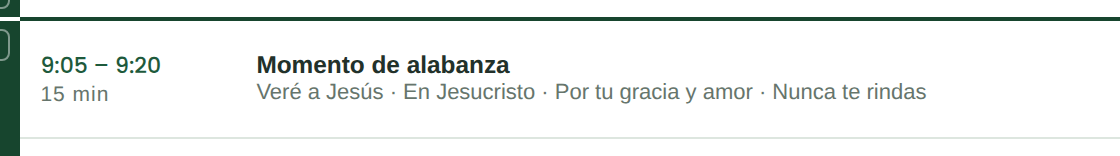
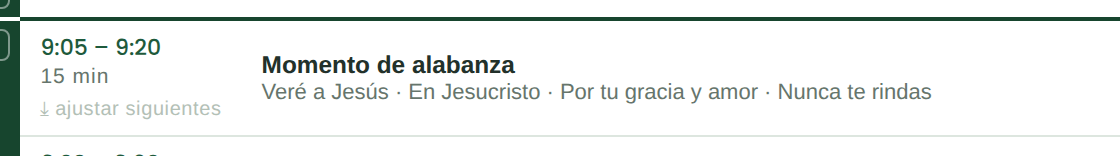
Correccion del horario en cascada: boton 'ajustar siguientes' por espacio
Cada espacio siguiente arranca donde termina el anterior y conserva su
duracion. Accion explicita, con deshacer, y 8 pruebas nuevas (tests/horario.js).

Claude-Session: https://claude.ai/code/session_013QA1nqfcv4KHsLsdxdkmcu

diff --git a/index.html b/index.html
@@ -79,6 +79,14 @@
   .hora { width: 108px; white-space: nowrap; }
   .rango { font-family: 'Poppins'; font-weight: 500; font-size: 11px; color: var(--verde2); }
   .mins { font-size: 8.8px; color: var(--gris); letter-spacing: 0.5px; }
+  /* boton de corregir el horario en cascada: solo existe en pantalla */
+  .ajustar { display: none; }
+  @media screen {
+    .ajustar { display: inline-block; border: none; background: none; color: #b3c0b6;
+      font-size: 10px; padding: 2px 0 0; cursor: pointer; letter-spacing: .3px; }
+    .ajustar:hover { color: var(--verde); text-decoration: underline; }
+    body.tarjetas .ajustar { font-size: 12.5px; padding: 6px 0; }
+  }
   .espacio .tit { font-size: 12.2px; font-weight: 700; }
   .espacio .sub { font-size: 10.2px; color: var(--gris); margin-top: 1px; }
   .espacio .sub:empty::before, .dirige .rol:empty::before { content: 'detalle (opcional)'; color: #c3cfc7; }
@@ -261,7 +269,7 @@
   @media print {
     body { background: #fff; }
     .hoja { zoom: 1 !important; }
-    .toolbar, .ops, .sbtn, .meta .quitar, .meta .agregar { display: none !important; }
+    .toolbar, .ops, .sbtn, .ajustar, .meta .quitar, .meta .agregar { display: none !important; }
     .hoja { margin: 0; box-shadow: none; width: 11in; height: 8.5in; }
     header img:hover { outline: none; }
     [contenteditable]:hover, [contenteditable]:focus { outline: none; background: transparent; }
@@ -739,7 +747,7 @@ document.addEventListener('visibilitychange', () => { if (document.hidden) guard
    Lee un rango tipo "9:05 - 9:20" y devuelve "15 min". Las horas de los programas
    van en formato de 12 horas sin am/pm, asi que si el fin queda antes del inicio
    se asume que cruzo el mediodia (11:35 - 12:20) o la tarde (12:20 - 1:05). */
-function calcularMins(rango) {
+function parsearRango(rango) {
   const hora = '(\\d{1,2}):(\\d{2})\\s*(a\\.?m\\.?|p\\.?m\\.?)?';
   const p = String(rango).match(new RegExp(hora + '\\s*(?:[\u2013\\-\u2014]|a|hasta)\\s*' + hora, 'i'));
   if (!p) return null;
@@ -760,7 +768,46 @@ function calcularMins(rango) {
   if (fin < inicio && !(p[3] && p[6])) fin += 12 * 60;
   const total = fin - inicio;
   if (total <= 0 || total > 12 * 60) return null;
-  return total + ' min';
+  return { ini: inicio, fin: fin, dur: total };
+}
+function calcularMins(rango) {
+  const r = parsearRango(rango);
+  return r ? r.dur + ' min' : null;
+}
+/* Minutos absolutos -> "H:MM" en el estilo del programa: 12 horas sin am/pm. */
+function formatearRango(ini, fin) {
+  const f = m => {
+    m = ((m % (24 * 60)) + 24 * 60) % (24 * 60);
+    const h = Math.floor(m / 60);
+    return ((h % 12) || 12) + ':' + String(m % 60).padStart(2, '0');
+  };
+  return f(ini) + ' \u2013 ' + f(fin);
+}
+/* Corrige el horario en cascada a partir de un espacio: cada espacio siguiente
+   arranca donde termina el anterior y conserva su propia duración. Es una acción
+   explícita (el botón ⤓ bajo los minutos), nunca automática: editar una hora suelta
+   no debe reescribir el resto del programa. Los espacios con hora ilegible se
+   saltan sin tocarlos, y Deshacer devuelve todo. */
+function ajustarHorasDesde(si, fi) {
+  leerDOM();
+  const base = parsearRango(modelo.secciones[si].filas[fi].hora);
+  if (!base) { marcarEstado('Primero escribe un rango válido en este espacio, por ejemplo 9:00 – 9:05', true); return; }
+  const planas = [];
+  modelo.secciones.forEach(sec => sec.filas.forEach(f => planas.push(f)));
+  const desde = modelo.secciones.slice(0, si).reduce((n, s) => n + s.filas.length, 0) + fi;
+  anotarHistorial();
+  let cursor = base.fin, tocadas = 0;
+  for (let k = desde + 1; k < planas.length; k++) {
+    const r = parsearRango(planas[k].hora);
+    if (!r) continue;
+    planas[k].hora = formatearRango(cursor, cursor + r.dur);
+    cursor += r.dur;
+    tocadas++;
+  }
+  render(); guardarYa();
+  marcarEstado(tocadas
+    ? 'Horario corregido: ' + tocadas + (tocadas === 1 ? ' espacio ajustado' : ' espacios ajustados') + ' (↶ Deshacer lo devuelve)'
+    : 'No hay espacios siguientes con horas para ajustar', true);
 }
 
 
@@ -796,7 +843,8 @@ function render() {
       }
       tr.innerHTML += `
         <td class="hora"><div class="rango" ${editable} data-f="${si}.${fi}.hora">${esc(f.hora)}</div>
-          <div class="mins" data-f="${si}.${fi}.mins" title="Se calcula del rango de horas">${esc(calcularMins(f.hora) || '')}</div></td>
+          <div class="mins" data-f="${si}.${fi}.mins" title="Se calcula del rango de horas">${esc(calcularMins(f.hora) || '')}</div>
+          <button class="ajustar solo-edicion" title="Corregir las horas de los espacios siguientes: cada uno arranca donde termina este y conserva su duración" onclick="ajustarHorasDesde(${si},${fi})">⤓ ajustar siguientes</button></td>
         <td class="espacio"><div class="tit" ${editable} data-f="${si}.${fi}.tit">${esc(f.tit)}</div>
           <div class="sub" ${editable} data-f="${si}.${fi}.sub">${esc(f.sub)}</div></td>
         <td class="dirige"><div class="nom" ${editable} data-f="${si}.${fi}.nom">${esc(f.nom)}</div>
@@ -963,7 +1011,7 @@ async function descargarHTML() {
   const doc = document.documentElement.cloneNode(true);
   /* la copia es para leer, archivar e imprimir: sin barra, sin botones y sin campos
      editables, porque el JavaScript no viaja con ella */
-  doc.querySelectorAll('script, .toolbar, .ops, .sbtn, .meta .quitar, .meta .agregar').forEach(n => n.remove());
+  doc.querySelectorAll('script, .toolbar, .ops, .sbtn, .ajustar, .meta .quitar, .meta .agregar').forEach(n => n.remove());
   doc.querySelectorAll('[contenteditable]').forEach(n => n.removeAttribute('contenteditable'));
   const hojaCopia = doc.querySelector('.hoja');
   if (hojaCopia) hojaCopia.style.zoom = '';

diff --git a/tests/horario.js b/tests/horario.js
@@ -1,0 +1,91 @@
+/* Pruebas de la corrección del horario en cascada (⤓ ajustar siguientes).
+   Requiere el servidor local: python3 -m http.server 8787
+   Ejecutar con: node tests/horario.js */
+
+const { chromium } = require('playwright');
+const BASE = process.env.BASE || 'http://127.0.0.1:8787/index.html';
+
+let pasan = 0, fallan = 0;
+function ok(nombre, condicion, detalle) {
+  if (condicion) { pasan++; console.log('  ✓ ' + nombre); }
+  else { fallan++; console.log('  ✗ ' + nombre + (detalle ? ' — ' + detalle : '')); }
+}
+
+(async () => {
+  const navegador = await chromium.launch();
+  const p = await navegador.newPage();
+  p.on('dialog', d => d.accept());
+  await p.goto(BASE);
+  await p.waitForTimeout(900);
+
+  const hora = n => p.evaluate(k => {
+    const planas = [];
+    modelo.secciones.forEach(s => s.filas.forEach(f => planas.push(f)));
+    return planas[k].hora;
+  }, n);
+  const duraciones = () => p.evaluate(() => {
+    const planas = [];
+    modelo.secciones.forEach(s => s.filas.forEach(f => planas.push(f)));
+    return planas.map(f => (parsearRango(f.hora) || {}).dur || null);
+  });
+
+  console.log('Mover el primer espacio media hora antes:');
+  const duracionesAntes = await duraciones();
+  await p.evaluate(() => {
+    const campo = document.querySelector('[data-f="0.0.hora"]');
+    campo.textContent = '8:30 – 8:35';
+    campo.dispatchEvent(new Event('input', { bubbles: true }));
+  });
+  await p.waitForTimeout(600);
+  await p.click('td.hora button.ajustar');   /* el de la primera fila */
+  await p.waitForTimeout(400);
+  ok('el segundo espacio arranca donde termina el primero', (await hora(1)).startsWith('8:35'));
+  const duracionesDespues = await duraciones();
+  ok('todas las duraciones se conservan', JSON.stringify(duracionesAntes.slice(1)) === JSON.stringify(duracionesDespues.slice(1)),
+     JSON.stringify(duracionesAntes) + ' vs ' + JSON.stringify(duracionesDespues));
+  ok('la cadena queda continua', await p.evaluate(() => {
+    const planas = [];
+    modelo.secciones.forEach(s => s.filas.forEach(f => planas.push(f)));
+    for (let k = 1; k < planas.length; k++) {
+      const a = parsearRango(planas[k - 1].hora), b = parsearRango(planas[k].hora);
+      if (!a || !b) return false;
+      if (b.ini % (12 * 60) !== a.fin % (12 * 60)) return false;
+    }
+    return true;
+  }));
+
+  console.log('Un espacio con hora ilegible se salta sin romper la cadena:');
+  await p.evaluate(() => {
+    const planas = [];
+    modelo.secciones.forEach(s => s.filas.forEach(f => planas.push(f)));
+    planas[2].hora = 'a las que se pueda';
+    render();
+  });
+  await p.click('td.hora button.ajustar');
+  await p.waitForTimeout(400);
+  ok('la fila ilegible queda igual', (await hora(2)) === 'a las que se pueda');
+  ok('la siguiente sigue la cadena desde la anterior legible', await p.evaluate(() => {
+    const planas = [];
+    modelo.secciones.forEach(s => s.filas.forEach(f => planas.push(f)));
+    const a = parsearRango(planas[1].hora), b = parsearRango(planas[3].hora);
+    return a && b && (b.ini % (12 * 60)) === (a.fin % (12 * 60));
+  }));
+
+  console.log('Deshacer devuelve el horario:');
+  const antesDeDeshacer = await hora(3);
+  await p.keyboard.press('Control+z');
+  await p.waitForTimeout(400);
+  ok('Ctrl+Z devuelve la última cascada', (await hora(3)) !== antesDeDeshacer, 'fila 3 sigue en ' + antesDeDeshacer);
+
+  console.log('El botón no existe para el lector ni sale en la impresión:');
+  const lectora = await navegador.newPage();
+  await lectora.goto(BASE + '?ver');
+  await lectora.waitForTimeout(700);
+  ok('en ?ver no se ve', !(await lectora.isVisible('button.ajustar')));
+  await lectora.emulateMedia({ media: 'print' });
+  ok('en papel no se ve', !(await lectora.isVisible('button.ajustar')));
+
+  await navegador.close();
+  console.log('\n' + pasan + ' pasan, ' + fallan + ' fallan');
+  process.exit(fallan ? 1 : 0);
+})().catch(e => { console.error('Error de las pruebas:', e); process.exit(1); });

diff --git a/manual.html b/manual.html
@@ -113,7 +113,7 @@
   igual que todo lo demás, las flechas de la banda mueven la sección completa con sus espacios, y con
   <span class="btn claro">➕ Sección</span> agrega una nueva al final.</p>
 
-  <h2>5. Los minutos se calculan solos</h2>
+  <h2 id="minutos">5. Los minutos se calculan solos</h2>
   <figure><img src="capturas/05-minutos.png" alt="Se escribe el rango; los minutos de abajo se calculan solos." width="560" height="78"><figcaption>Se escribe el rango; los minutos de abajo se calculan solos.</figcaption></figure>
   <p>Usted escribe el rango de horas y el sistema pone los minutos. No hay que sumar nada a mano.</p>
   <table>
@@ -127,6 +127,15 @@
   no dura más de doce horas. Conviene escribirlos en los programas de la noche, como el culto del
   miércoles o el del viernes, para que quien lea el papel no tenga duda. Si la hora queda mal escrita,
   los minutos se quedan como estaban en vez de borrarse.</p>
+
+  <h3>Si una hora cambia, el resto del horario se corrige solo</h3>
+  <p>Cuando un espacio se mueve — el programa empieza más temprano, o algo se alargó — no hay que
+  reescribir todas las horas a mano. Cambie la hora del espacio que se movió y toque el botoncito
+  <b>⤓ ajustar siguientes</b> que está debajo de los minutos: todos los espacios que siguen se
+  corren en cadena, cada uno arrancando donde termina el anterior y <b>conservando lo que dura</b>.</p>
+  <p>Dos detalles buenos de saber: los espacios de abajo no se tocan hasta que usted toca el botón
+  (cambiar una hora suelta no mueve nada más), y si el resultado no era lo que esperaba,
+  <span class="btn claro">↶ Deshacer</span> devuelve el horario completo como estaba.</p>
 
   <h2>6. Si se equivoca: deshacer</h2>
   <figure><img src="capturas/06-deshacer.png" alt="El botón de deshacer se activa en cuanto hay algo que devolver." width="122" height="54"><figcaption>El botón de deshacer se activa en cuanto hay algo que devolver.</figcaption></figure>

diff --git a/README.md b/README.md
@@ -45,8 +45,9 @@ base, la página funciona igual que la versión estática.
 | `tests/horas.js` | 19 casos del cálculo de duración. |
 | `tests/modelo.js` | Serialización, estados dañados y filtrado de HTML. |
 | `tests/vistas.js` | Tarjetas y hoja en cuatro pantallas, más impresión. Necesita servidor local. |
-| `tests/api.js` | 18 casos del API: publicar, autores, rechazos, revocación y límite de intentos. |
+| `tests/api.js` | 22 casos del API: publicar, autores, futuros, rechazos, revocación y límite de intentos. |
 | `tests/publicar.js` | El flujo de publicar desde la página, con navegador real. |
+| `tests/horario.js` | La corrección del horario en cascada (⤓): duraciones conservadas, filas ilegibles, deshacer. |
 | `tools/indexar.js` | Regenera `programas/index.json`. |
 | `tools/capturas.js` | Vuelve a tomar las imágenes del manual desde la aplicación real. |
 | `tools/optimizar-capturas.py` | Reduce el peso de esas imágenes. |
@@ -182,6 +183,7 @@ node tests/horas.js
 node tests/modelo.js
 python3 -m http.server 8787      # en otra terminal, desde la raíz
 node tests/vistas.js
+node tests/horario.js
 ```
 
 Las del API y el flujo de publicar necesitan el servidor local con base:
